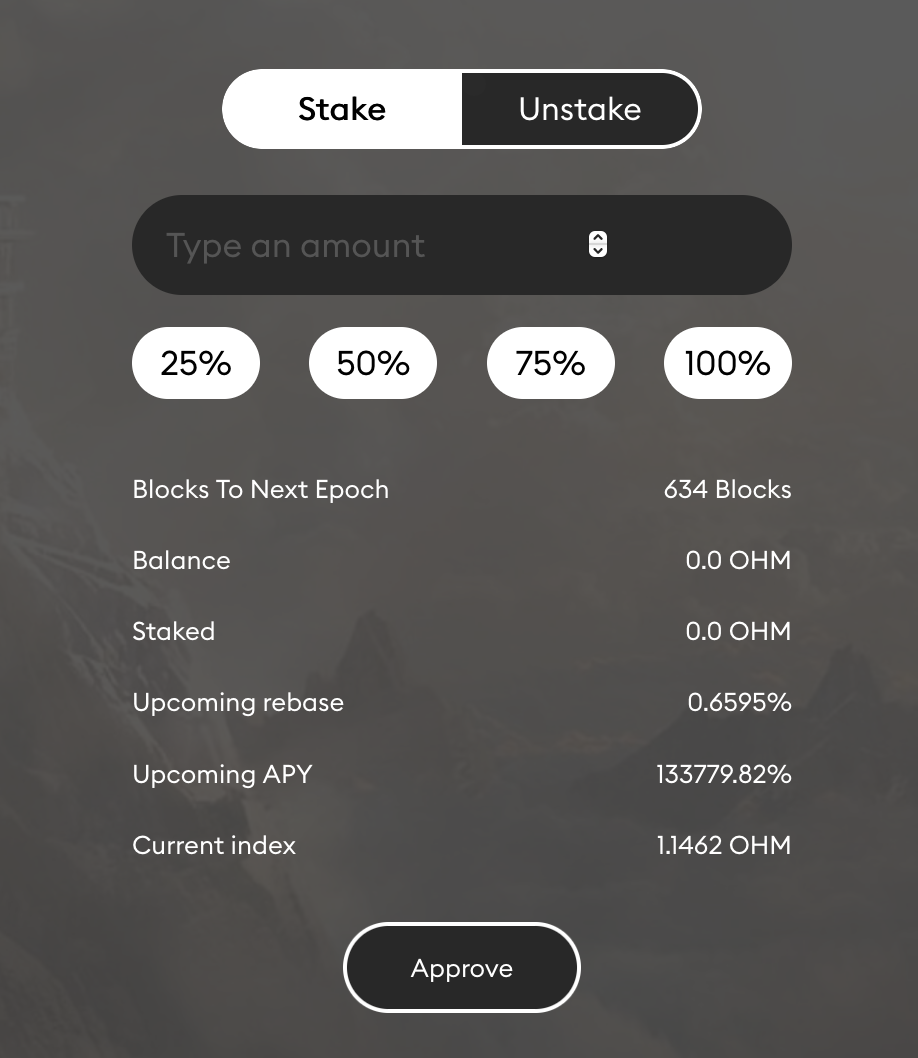
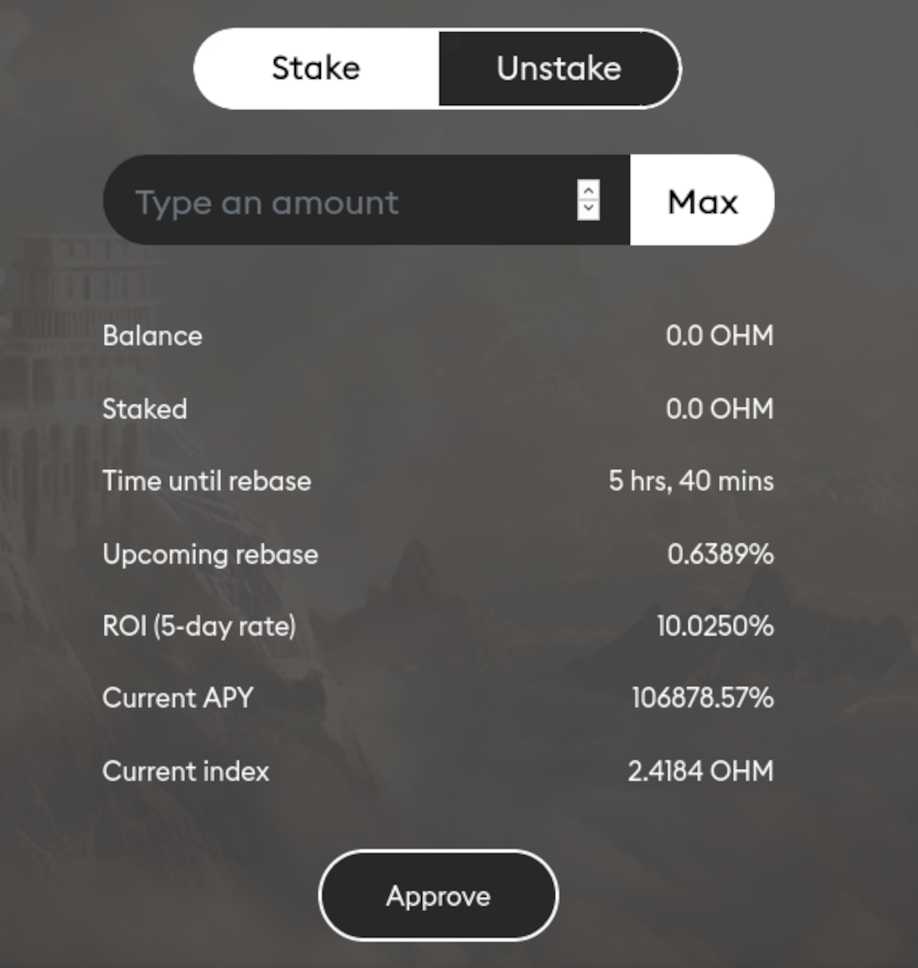
Update the staking instruction page (#23)
* Update the staking page image

* Update the upcoming rebase definition

* Add a definition for ROI

diff --git a/using-the-website/staking.md b/using-the-website/staking.md
@@ -34,7 +34,9 @@ Staking allows you to earn OHM passively via auto-compounding. By staking your O
 
 **Time until rebase** tells you the remaining time until the next rebase.
 
-**Upcoming rebase** tells you how much your balance will increase when the next epoch begins. For example, if you held 100 OHM and the upcoming rebase was 0.6595%, your balance would increase from 100 to 100.6595 OHM.
+**Upcoming rebase** tells you how much your sOHM balance will increase when the next epoch begins. For example, if you stake 100 OHM and the upcoming rebase is 0.6389%, your sOHM balance would increase from 100 to 100.6389.
+
+**ROI (5-day rate)** estimates how much your sOHM balance will increase after 5 days, if the upcoming rebase rate stays the same during this period. For example, if you stake 100 OHM and the rate is 10.0250%, your sOHM balance would increase from 100 to 110.025 after 5 days.
 
 **Upcoming APY** tells you the annualized rate of the current epoch. Since sOHM rebases exponentially, we display a compounding rate. You can determine this number for yourself with the calculation \( \(1 + rebase\) ^ \(365 \* 3\) \) - 1
 
